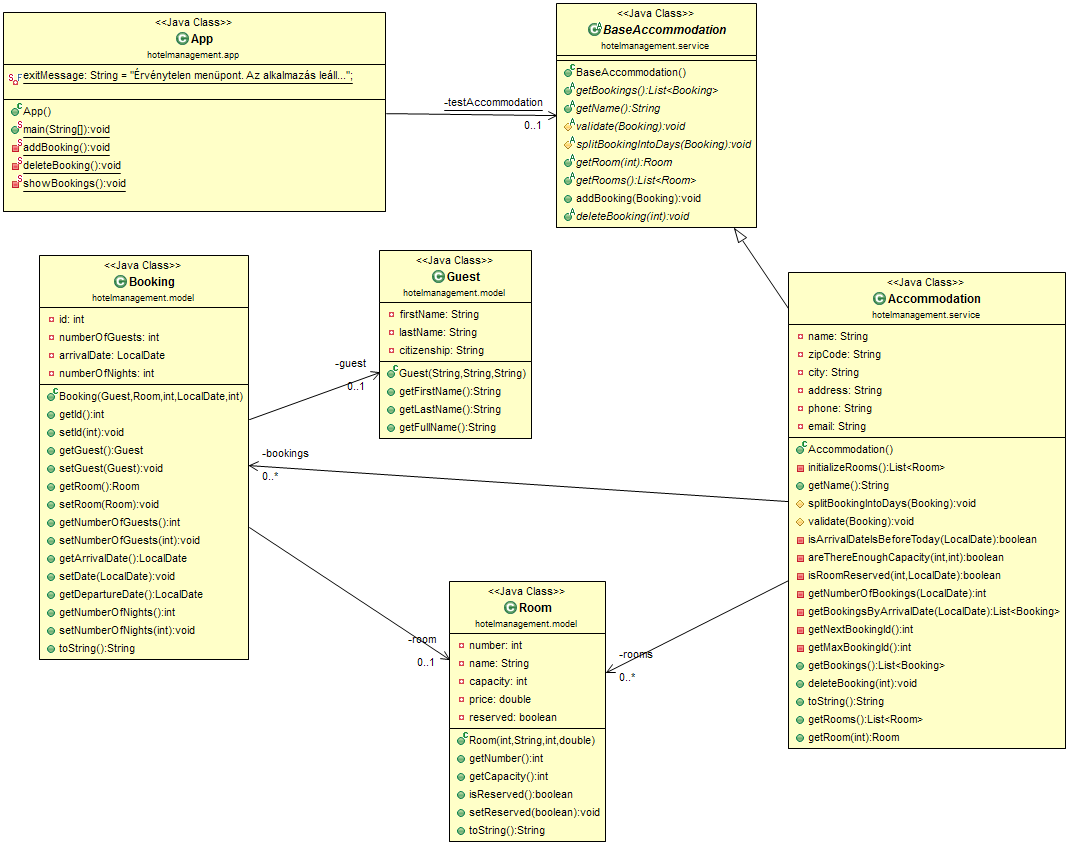
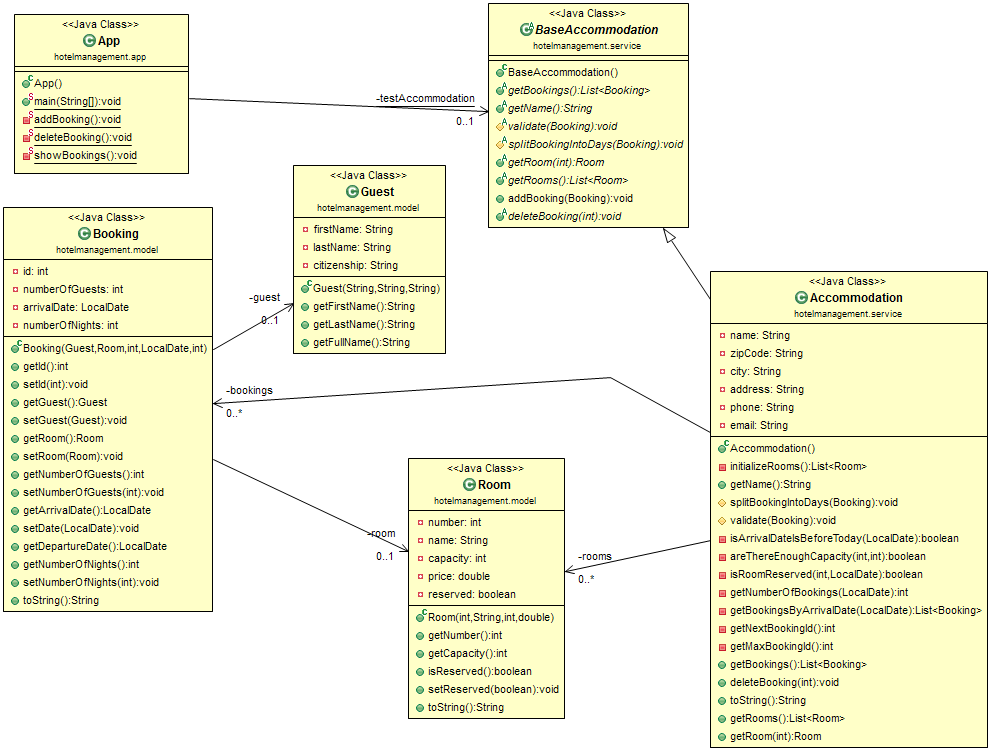
refaktor.

diff --git a/src/hotelmanagement/app/App.java b/src/hotelmanagement/app/App.java
@@ -8,7 +8,6 @@ import hotelmanagement.service.*;
 public class App {
 
 	private static BaseAccommodation testAccommodation;
-	private static final String exitMessage = "Érvénytelen menüpont!";
 
 	public static void main(String[] args) {
 
@@ -20,9 +19,12 @@ public class App {
 			System.out.println("******* V I R T U A L *********");
 			System.out.println("*** R E C E P T I O N I S T ***");
 			System.out.println("*******************************");
+			System.out.println("Betöltés...");
+
+			Thread.sleep(3000);
 
 			while (true) {
-				System.out.println("Kérem válasszon menüpontot:\n");
+				System.out.println("\nKérem válasszon menüpontot:\n");
 				System.out.println(
 						"1) Foglalás rögzítése\n2) Foglalás törlése\n3) Foglalások listázása\n4) Kilépés az alkalmazásból");
 
@@ -40,10 +42,12 @@ public class App {
 					showBookings();
 					break;
 				case 4:
+					System.out.println("Leállítás...");
+					Thread.sleep(3000);
 					System.exit(0);
 					break;
 				default:
-					System.out.println(exitMessage);
+					System.out.println("Érvénytelen menüpont!");
 					break;
 				}
 			}
@@ -112,7 +116,7 @@ public class App {
 	}
 
 	private static void showBookings() {
-		System.out.println("Foglalások listája: ");
+		System.out.println("\nFoglalások listája: ");
 		for (Booking booking : testAccommodation.getBookings()) {
 			System.out.println(booking);
 		}
